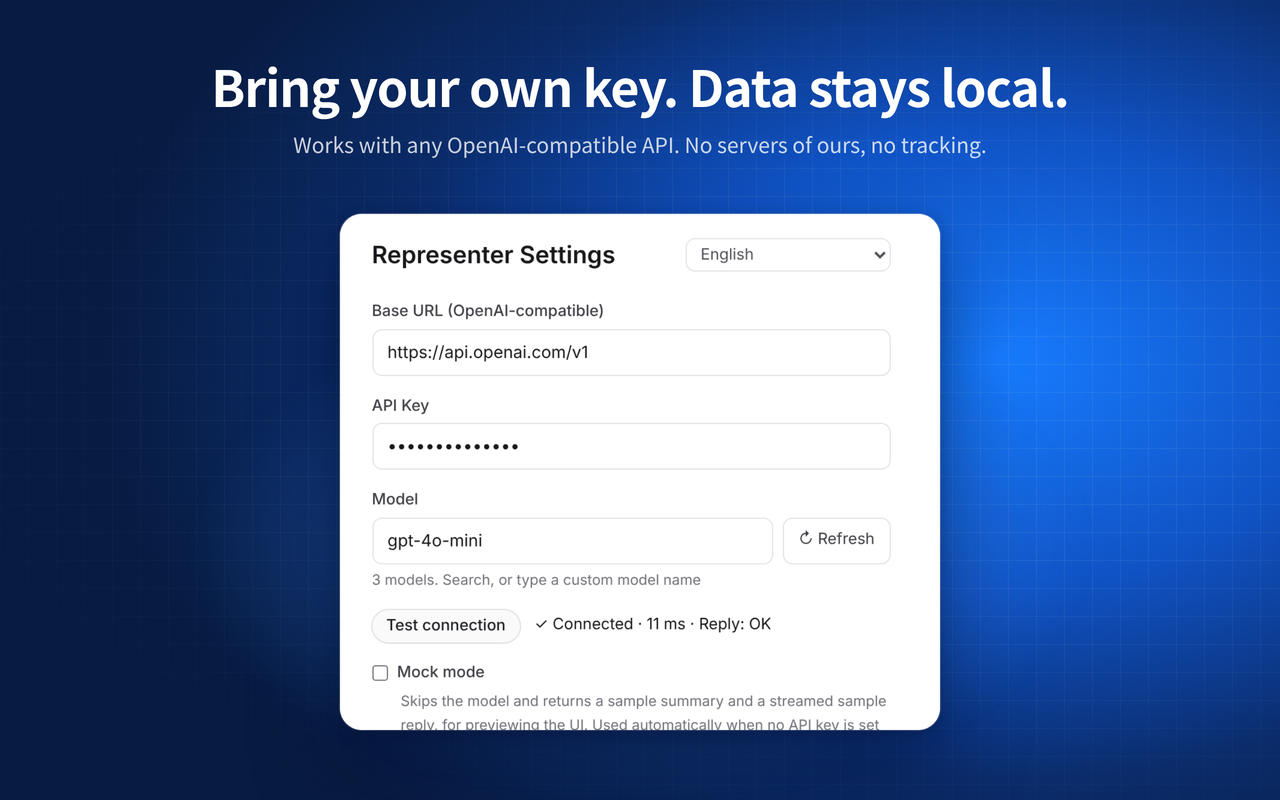
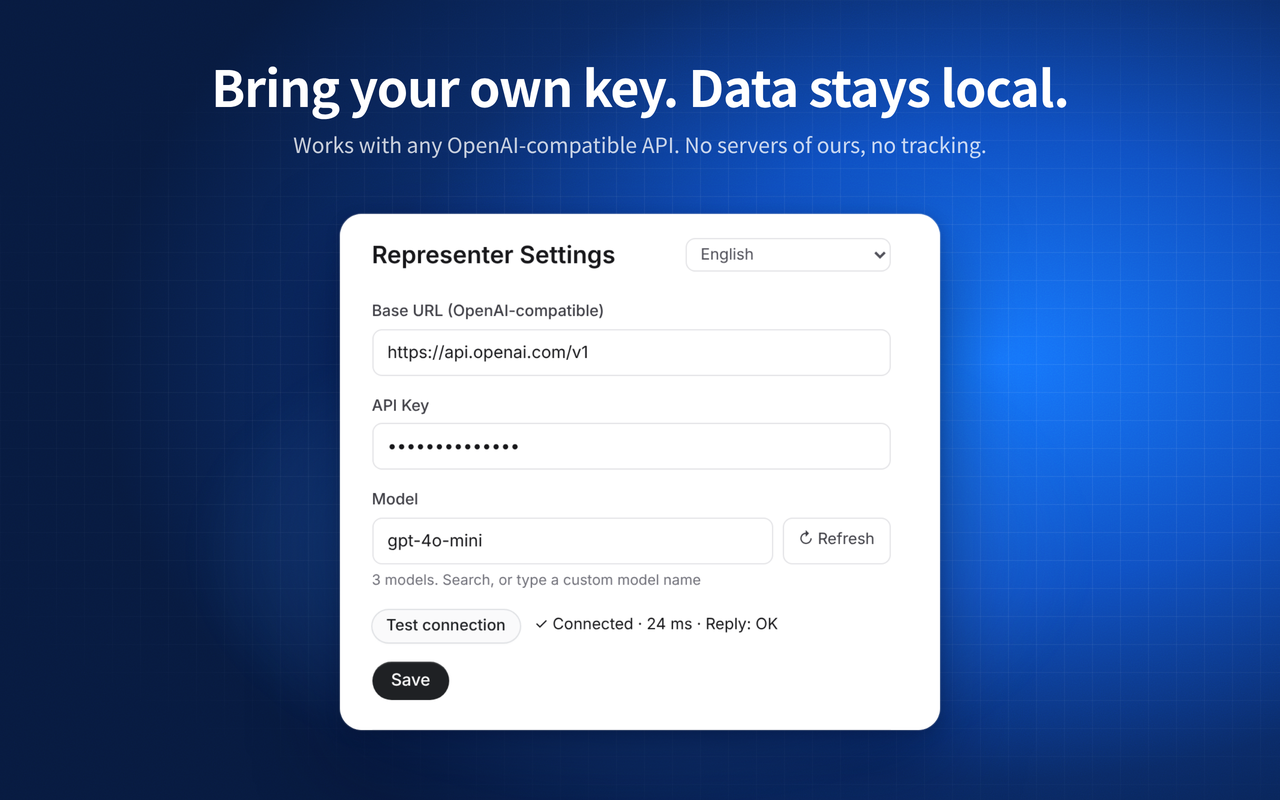
chore: make mock mode a dev-only tool

Changed region(s): [[0.2812, 0.8125, 0.6875, 0.9375], [0.5, 0.75, 0.5938, 0.8125]]

diff --git a/lib/i18n.ts b/lib/i18n.ts
@@ -35,10 +35,7 @@ const zh = {
   testSending: (m: string) => `正在向 ${m} 发送测试请求…`,
   testOk: (ms: number, reply?: string) => `✓ 连接成功 · ${ms} ms${reply ? ` · 回复：${reply}` : ''}`,
   testFail: (e: string) => `✗ 连接失败：${e}`,
-  mockMode: 'Mock 模式', mockAuto: '未填 Key → 自动启用', mockManual: '已手动开启',
-  mockDesc: '不调用模型，返回模拟总结和逐字输出的模拟对话，用于预览界面。',
-  mockAutoDesc: '当前没有填写 API Key，所以会自动使用 Mock；填写 Key 后可自由开关。',
-  mockHint: '没有填写 API Key 时会自动使用（localhost 等本地地址除外）。',
+  noApiKey: '还没有填写 API Key，请先在设置页配置。',
   save: '保存', saved: '已保存 ✓',
   shortcutNow: '当前快捷键：', shortcutFallback: (k: string) => `${k}（页面内兜底）`,
   shortcutDesc: '默认 Mac 为 ⌘E、其他系统为 Ctrl+E，按一次显示、再按一次隐藏。',
@@ -56,16 +53,6 @@ const zh = {
   saveChanges: '保存修改', add: '添加', cancel: '取消', noSkills: '还没有 Skill。', builtin: '内置',
   confirmDelete: '确定删除？', delete: '删除', moveUp: '上移', moveDown: '下移', edit: '编辑', resetSkills: '恢复内置默认 Skills',
   errName: '请填写名称', errNameLong: '名称最多 24 个字', errTemplate: '请填写提示词模板', errNoSkill: 'Skill 不存在',
-  // mock
-  mockPage: '这个页面',
-  mockOverview: (t: string) => `这是「${t}」的模拟总结。文章先提出一个核心观点，再用具体例子解释背后的机制，最后给出可以落地的实践建议。开启 Mock 模式后，不需要真实模型和 API Key 也能完整预览 Representer 的界面流程。`,
-  mockTerms: ['模拟总结', '核心观点', '实践建议', 'Mock 模式'],
-  mockSections: [
-    ['核心观点', ['点明页面要解决的主要问题', '说明这个问题为什么重要', '为后文的论证做铺垫']],
-    ['工作原理', ['把机制拆成几个清晰的步骤', '每一步都配一个例子', '指出取舍和边界情况']],
-    ['要点回顾', ['集中列出关键结论', '建议下一步可以尝试什么', '给出延伸阅读方向']],
-  ] as [string, string[]][],
-  mockReply: (q: string) => `（模拟回复）你问的是：「${q}」。\n\n根据总结，这个页面先提出核心观点，再一步步解释原理，最后在「要点回顾」里列出了下一步可以做什么。在设置页关闭 Mock 模式并填写 API Key，就能得到真实回答。`,
   // prompt
   replyLanguage: 'Simplified Chinese',
 };
@@ -94,10 +81,7 @@ const en: Messages = {
   testSending: (m) => `Sending a test request to ${m}…`,
   testOk: (ms, reply) => `✓ Connected · ${ms} ms${reply ? ` · Reply: ${reply}` : ''}`,
   testFail: (e) => `✗ Connection failed: ${e}`,
-  mockMode: 'Mock mode', mockAuto: 'No key → on automatically', mockManual: 'Turned on manually',
-  mockDesc: 'Skips the model and returns a sample summary and a streamed sample reply, for previewing the UI.',
-  mockAutoDesc: 'No API key is set, so mock mode is used automatically. Add a key to toggle it freely.',
-  mockHint: 'Used automatically when no API key is set (except for local addresses such as localhost).',
+  noApiKey: 'No API key yet. Add one in Settings first.',
   save: 'Save', saved: 'Saved ✓',
   shortcutNow: 'Current shortcut: ', shortcutFallback: (k) => `${k} (in-page fallback)`,
   shortcutDesc: 'Default is ⌘E on Mac and Ctrl+E elsewhere. Press once to show, again to hide.',
@@ -114,15 +98,6 @@ const en: Messages = {
   saveChanges: 'Save changes', add: 'Add', cancel: 'Cancel', noSkills: 'No Skills yet.', builtin: 'Built-in',
   confirmDelete: 'Delete?', delete: 'Delete', moveUp: 'Move up', moveDown: 'Move down', edit: 'Edit', resetSkills: 'Restore built-in Skills',
   errName: 'Please enter a name', errNameLong: 'Names can be at most 24 characters', errTemplate: 'Please enter a prompt template', errNoSkill: 'Skill not found',
-  mockPage: 'this page',
-  mockOverview: (t) => `This is a sample summary of “${t}”. The article opens with a core idea, explains the mechanism behind it with concrete examples, and ends with practical advice. In mock mode you can preview the whole Representer experience without a real model or API key.`,
-  mockTerms: ['sample summary', 'core idea', 'practical advice', 'mock mode'],
-  mockSections: [
-    ['Core idea', ['States the main problem the page tackles', 'Explains why the problem matters', 'Sets up the argument that follows']],
-    ['How it works', ['Breaks the mechanism into clear steps', 'Pairs each step with an example', 'Points out trade-offs and edge cases']],
-    ['Recap', ['Lists the key conclusions', 'Suggests what to try next', 'Points to further reading']],
-  ],
-  mockReply: (q) => `(Sample reply) You asked: “${q}”.\n\nAccording to the summary, the page first states a core idea, then explains how it works step by step, and ends with a recap of what to try next. Turn off mock mode and add an API key in settings to get real answers.`,
   replyLanguage: 'English',
 };
 

diff --git a/lib/mock-text.ts b/lib/mock-text.ts
@@ -1,0 +1,36 @@
+/** Dev-only mock text (sample summary/reply and the options toggle). Kept out of i18n so production builds drop it. */
+import type { Lang } from './i18n';
+
+const zh = {
+  mockMode: 'Mock 模式', mockAuto: '未填 Key → 自动启用', mockManual: '已手动开启',
+  mockDesc: '不调用模型，返回模拟总结和逐字输出的模拟对话，用于预览界面。',
+  mockAutoDesc: '当前没有填写 API Key，所以会自动使用 Mock；填写 Key 后可自由开关。',
+  mockHint: '没有填写 API Key 时会自动使用（localhost 等本地地址除外）。',
+  mockPage: '这个页面',
+  mockOverview: (t: string) => `这是「${t}」的模拟总结。文章先提出一个核心观点，再用具体例子解释背后的机制，最后给出可以落地的实践建议。开启 Mock 模式后，不需要真实模型和 API Key 也能完整预览 Representer 的界面流程。`,
+  mockTerms: ['模拟总结', '核心观点', '实践建议', 'Mock 模式'],
+  mockSections: [
+    ['核心观点', ['点明页面要解决的主要问题', '说明这个问题为什么重要', '为后文的论证做铺垫']],
+    ['工作原理', ['把机制拆成几个清晰的步骤', '每一步都配一个例子', '指出取舍和边界情况']],
+    ['要点回顾', ['集中列出关键结论', '建议下一步可以尝试什么', '给出延伸阅读方向']],
+  ] as [string, string[]][],
+  mockReply: (q: string) => `（模拟回复）你问的是：「${q}」。\n\n根据总结，这个页面先提出核心观点，再一步步解释原理，最后在「要点回顾」里列出了下一步可以做什么。在设置页关闭 Mock 模式并填写 API Key，就能得到真实回答。`,
+};
+
+const en: typeof zh = {
+  mockMode: 'Mock mode', mockAuto: 'No key → on automatically', mockManual: 'Turned on manually',
+  mockDesc: 'Skips the model and returns a sample summary and a streamed sample reply, for previewing the UI.',
+  mockAutoDesc: 'No API key is set, so mock mode is used automatically. Add a key to toggle it freely.',
+  mockHint: 'Used automatically when no API key is set (except for local addresses such as localhost).',
+  mockPage: 'this page',
+  mockOverview: (t) => `This is a sample summary of “${t}”. The article opens with a core idea, explains the mechanism behind it with concrete examples, and ends with practical advice. In mock mode you can preview the whole Representer experience without a real model or API key.`,
+  mockTerms: ['sample summary', 'core idea', 'practical advice', 'mock mode'],
+  mockSections: [
+    ['Core idea', ['States the main problem the page tackles', 'Explains why the problem matters', 'Sets up the argument that follows']],
+    ['How it works', ['Breaks the mechanism into clear steps', 'Pairs each step with an example', 'Points out trade-offs and edge cases']],
+    ['Recap', ['Lists the key conclusions', 'Suggests what to try next', 'Points to further reading']],
+  ],
+  mockReply: (q) => `(Sample reply) You asked: “${q}”.\n\nAccording to the summary, the page first states a core idea, then explains how it works step by step, and ends with a recap of what to try next. Turn off mock mode and add an API key in settings to get real answers.`,
+};
+
+export const mockText = (lang: Lang) => (lang === 'en' ? en : zh);

diff --git a/entrypoints/options/main.tsx b/entrypoints/options/main.tsx
@@ -6,14 +6,16 @@ import { rpc } from '@/lib/messages';
 import { isLocalUrl } from '@/lib/url';
 import { Button } from '@/components/bui/Button';
 import { useMock } from '@/lib/mock';
+import { mockText } from '@/lib/mock-text';
 import { ModelCombobox } from '@/components/ModelCombobox';
 import { SkillsManager } from '@/components/SkillsManager';
-import { LangProvider, useT } from '@/components/i18n';
+import { LangProvider, useLang, useT } from '@/components/i18n';
 import type { TestResult } from '@/lib/models';
 import { DEFAULT_SETTINGS, type Settings } from '@/lib/types';
 
 function Options() {
   const t = useT();
+  const lang = useLang();
   const [s, setS] = useState<Settings>(DEFAULT_SETTINGS);
   const [shortcut, setShortcut] = useState('');
   const [saved, setSaved] = useState(false);
@@ -84,18 +86,19 @@ function Options() {
             {test && !test.ok && <span className="text-red-600">{t.testFail(test.error ?? '')}</span>}
           </span>
         </div>
-        {(() => {
+        {import.meta.env.DEV && (() => {
+          const m = mockText(lang);
           const auto = !s.mock && useMock(s); // no key (and not a local server) → mock is used automatically
           return (
             <div className="space-y-1">
               <label className="flex items-center gap-2 text-[13px] text-zinc-700">
                 <input type="checkbox" checked={s.mock || auto} disabled={auto} onChange={(e) => setS({ ...s, mock: e.target.checked })} />
-                <span className="font-medium">{t.mockMode}</span>
-                {auto && <span className="rounded-full bg-amber-100 px-2 py-0.5 text-[11px] text-amber-800">{t.mockAuto}</span>}
-                {s.mock && <span className="rounded-full bg-zinc-100 px-2 py-0.5 text-[11px] text-zinc-700">{t.mockManual}</span>}
+                <span className="font-medium">{m.mockMode}</span>
+                {auto && <span className="rounded-full bg-amber-100 px-2 py-0.5 text-[11px] text-amber-800">{m.mockAuto}</span>}
+                {s.mock && <span className="rounded-full bg-zinc-100 px-2 py-0.5 text-[11px] text-zinc-700">{m.mockManual}</span>}
               </label>
               <p className="pl-6 text-[12px] leading-relaxed text-zinc-500">
-                {t.mockDesc} {auto ? t.mockAutoDesc : t.mockHint}
+                {m.mockDesc} {auto ? m.mockAutoDesc : m.mockHint}
               </p>
             </div>
           );

diff --git a/lib/provider.ts b/lib/provider.ts
@@ -1,8 +1,8 @@
-/** Picks the mock or the real (pi durable) provider from settings, so callers never branch on it. */
+/** Picks the real (pi durable) provider, or the mock one in dev builds, so callers never branch on it. */
 import { runTurn } from './llm';
 import { mockStream, mockSummary, useMock } from './mock';
 import { parseSummary } from './parse';
-import type { Lang } from './i18n';
+import { messages, type Lang } from './i18n';
 import { chatSystem, summaryInstructions, summaryInput } from './prompts';
 import type { ChatMessage, Settings, Summary } from './types';
 
@@ -12,7 +12,13 @@ export interface Provider {
 }
 
 export function providerFor(s: Settings, lang: Lang = 'zh-CN'): Provider {
-  if (useMock(s)) return { summarize: (title) => mockSummary(title, lang), chat: (_c, _h, input, onDelta, signal) => mockStream(input, onDelta, signal, 30, lang) };
+  // Mock mode is a dev-only tool: production builds ignore the stored flag and drop the mock code.
+  const dev = import.meta.env.DEV;
+  if (useMock(dev ? s : { ...s, mock: false })) {
+    if (dev) return { summarize: (title) => mockSummary(title, lang), chat: (_c, _h, input, onDelta, signal) => mockStream(input, onDelta, signal, 30, lang) };
+    const fail = () => Promise.reject(new Error(messages(lang).noApiKey));
+    return { summarize: fail, chat: fail };
+  }
   return {
     summarize: async (title, url, content) => parseSummary(await runTurn(s, summaryInstructions(lang), [], summaryInput(title, url, content))),
     chat: (c, history, input, onDelta, signal) => runTurn(s, chatSystem(c.title, c.summary, c.content), history, input, onDelta, signal),

diff --git a/tests/storage-provider.test.ts b/tests/storage-provider.test.ts
@@ -1,4 +1,4 @@
-import { describe, expect, it } from 'vitest';
+import { afterEach, describe, expect, it, vi } from 'vitest';
 import { createCache } from '../lib/cache';
 import { providerFor } from '../lib/provider';
 import { forkSession } from '../lib/sessions';
@@ -24,10 +24,19 @@ describe('storage', () => {
 });
 
 describe('providerFor', () => {
-  it('uses the mock provider when mock is on or there is no key', async () => {
+  it('uses the mock provider in dev builds when mock is on or there is no key', async () => {
     for (const s of [{ ...DEFAULT_SETTINGS, mock: true, apiKey: 'k' }, { ...DEFAULT_SETTINGS, apiKey: '' }]) {
       const out = await providerFor(s).chat({ title: 't', summary: { overview: 'o', keyTerms: [], sections: [] }, content: '' }, [], 'hi', () => {});
       expect(out.length).toBeGreaterThan(0);
     }
   }, 30000);
+  describe('production builds', () => {
+    afterEach(() => { vi.unstubAllEnvs(); });
+    it('ignores a stored mock flag and asks for a key when none is set', async () => {
+      vi.stubEnv('DEV', false);
+      const ctx = { title: 't', summary: { overview: 'o', keyTerms: [], sections: [] }, content: '' };
+      await expect(providerFor({ ...DEFAULT_SETTINGS, mock: true, apiKey: '' }, 'en').chat(ctx, [], 'hi', () => {})).rejects.toThrow(/No API key/);
+      await expect(providerFor({ ...DEFAULT_SETTINGS, apiKey: '' }, 'en').summarize('t', 'u', 'c')).rejects.toThrow(/No API key/);
+    });
+  });
 });

diff --git a/lib/mock.ts b/lib/mock.ts
@@ -1,4 +1,5 @@
-import { messages, type Lang } from './i18n';
+import type { Lang } from './i18n';
+import { mockText } from './mock-text';
 import type { Settings, Summary } from './types';
 import { isLocalUrl } from './url';
 
@@ -16,7 +17,7 @@ const sleep = (ms: number, signal?: AbortSignal) => new Promise<void>((res, rej)
 });
 
 export function buildMockSummary(title: string, lang: Lang = 'zh-CN'): Summary {
-  const m = messages(lang);
+  const m = mockText(lang);
   const icons = ['target', 'lightbulb', 'check'] as const;
   return {
     overview: m.mockOverview(title.trim() || m.mockPage),
@@ -31,7 +32,7 @@ export async function mockSummary(title: string, lang: Lang = 'zh-CN', signal?: 
 }
 
 export function mockReplyText(question: string, lang: Lang = 'zh-CN'): string {
-  return messages(lang).mockReply(question.slice(0, 120));
+  return mockText(lang).mockReply(question.slice(0, 120));
 }
 
 /** Stream the mock reply token by token (~30ms each): words for Latin text, 1–2 chars for CJK. */

diff --git a/README.md b/README.md
@@ -28,7 +28,6 @@ English · [简体中文](./README.zh-CN.md)
 - 🔝 **Always on top**: the panel renders in the browser's top layer, so site navbars and popups can't cover it. The rest of the page stays clickable.
 - 🌐 **i18n**: English and 简体中文. The language follows the browser, or you can set it in Options.
 - 🔑 **BYOK, privacy first**: requests go from the extension straight to the endpoint you configure, with no third-party servers in between.
-- 🧪 **Mock mode**: try the whole UI without an API key.
 
 ## Screenshots
 
@@ -66,7 +65,6 @@ npm run build        # output: .output/chrome-mv3
 | **API Key** | Stored only in `chrome.storage.local` on your machine |
 | **Model** | Fetched automatically from `GET /models`. Searchable, and you can type a custom model name |
 | **Test connection** | Sends a tiny request to the selected model and shows the latency or the error |
-| **Mock mode** | Returns a sample summary and streamed sample replies. Turned on automatically when no key is set (except for local endpoints) |
 | **Language** | Auto / English / 简体中文 |
 
 **Skills** can be added, edited, deleted and reordered in Options. Placeholders: `{{input}}` (composer text, or the page selection when the composer is empty), `{{selection}}` (the last text selected on the page), `{{page_title}}`. Type `/` in the composer to see all commands.
@@ -81,12 +79,14 @@ npm test          # Vitest unit tests
 npm run zip       # package zip
 ```
 
+Dev builds (`npm run dev`) add a Mock mode toggle in Options that returns sample summaries and replies, for testing the UI without a model. Production builds leave it out.
+
 Stack: WXT · React · TypeScript · Tailwind CSS · Framer Motion · Shadow DOM · [pi durable](https://github.com/earendil-works/pi) (OpenAI-compatible `/chat/completions`)
 
 ```
 entrypoints/   background (messaging & streaming), content (Shadow DOM overlay), options
 components/    UI (panel, chat, Skills, model picker…); bui/ holds base components adapted from Beautiful UI
-lib/           pure logic: cache, sessions, Skills, messaging, storage, mock, LLM calls, parsing
+lib/           pure logic: cache, sessions, Skills, messaging, storage, LLM calls, dev-only mock, parsing
 tests/         Vitest unit tests
 ```
 

diff --git a/README.zh-CN.md b/README.zh-CN.md
@@ -28,7 +28,6 @@
 - 🔝 **始终置顶**：浮层渲染在浏览器 top layer，不会被网站导航栏或弹窗遮挡，浮层以外的页面照常可点。
 - 🌐 **多语言**：English / 简体中文，默认跟随浏览器，也可在设置中切换。
 - 🔑 **BYOK，隐私优先**：请求直接从扩展发往你配置的接口，不经过任何第三方服务器。
-- 🧪 **Mock 模式**：不填 Key 也能完整体验界面。
 
 ## 截图
 
@@ -66,7 +65,6 @@ npm run build        # 产物在 .output/chrome-mv3
 | **API Key** | 只保存在本机 `chrome.storage.local` |
 | **Model** | 自动从 `GET /models` 拉取，可搜索，也可手动输入 |
 | **测试连接** | 向所选模型发一条极短请求，显示耗时或错误信息 |
-| **Mock 模式** | 返回模拟总结和流式回复；未填 Key 时自动启用（本地地址除外） |
 | **语言** | 自动 / English / 简体中文 |
 
 **Skills** 在选项页增删改、排序。占位符：`{{input}}`（输入框文字；为空时用页面选中文字）、`{{selection}}`（页面上最近选中的文字）、`{{page_title}}`。在输入框输入 `/` 可查看全部命令。
@@ -80,6 +78,8 @@ npm run compile   # 类型检查
 npm test          # 单元测试
 npm run zip       # 打包 zip
 ```
+
+开发构建（`npm run dev`）的设置页会多一个 Mock 模式开关，返回模拟总结和回复，方便不接模型调试界面；正式构建不包含它。
 
 技术栈：WXT · React · TypeScript · Tailwind CSS · Framer Motion · Shadow DOM · [pi durable](https://github.com/earendil-works/pi)
 

diff --git a/PRIVACY.md b/PRIVACY.md
@@ -14,7 +14,7 @@ Representer 是一个开源 Chrome 扩展，用于对你正在浏览的网页生
 ### 数据发送到哪里
 - Representer 采用 **BYOK（自带密钥）** 模式。生成总结或回答时，上述网页内容和对话内容**只会直接发送到你在设置页配置的 API 地址**（例如 OpenAI、OpenRouter 或你本机的 Ollama），并附带你的 API Key 用于鉴权。
 - 这些数据由你选择的服务商按其隐私政策处理。Representer 的开发者无法访问这些请求。
-- 开启 Mock 模式或未填写 API Key 时，不会发出任何网络请求。
+- 未填写 API Key 时，不会发出任何网络请求。
 - Representer 不包含任何统计、分析、广告或追踪代码，也不会加载远程代码。
 
 ### 本地存储
@@ -40,7 +40,7 @@ Representer is an open-source Chrome extension that creates AI summaries, mind-m
 
 ### Where data goes
 - Representer is **BYOK (bring your own key)**. To generate a summary or answer, page content and chat messages are sent **only, and directly, to the API endpoint you configure** (e.g. OpenAI, OpenRouter, or a local Ollama server), together with your API key for authentication. That provider processes the data under its own privacy policy; Representer's developers have no access to these requests.
-- In Mock mode, or when no API key is set, no network requests are made.
+- When no API key is set, no network requests are made.
 - Representer contains no analytics, advertising or tracking code and does not load remote code.
 
 ### Local storage
